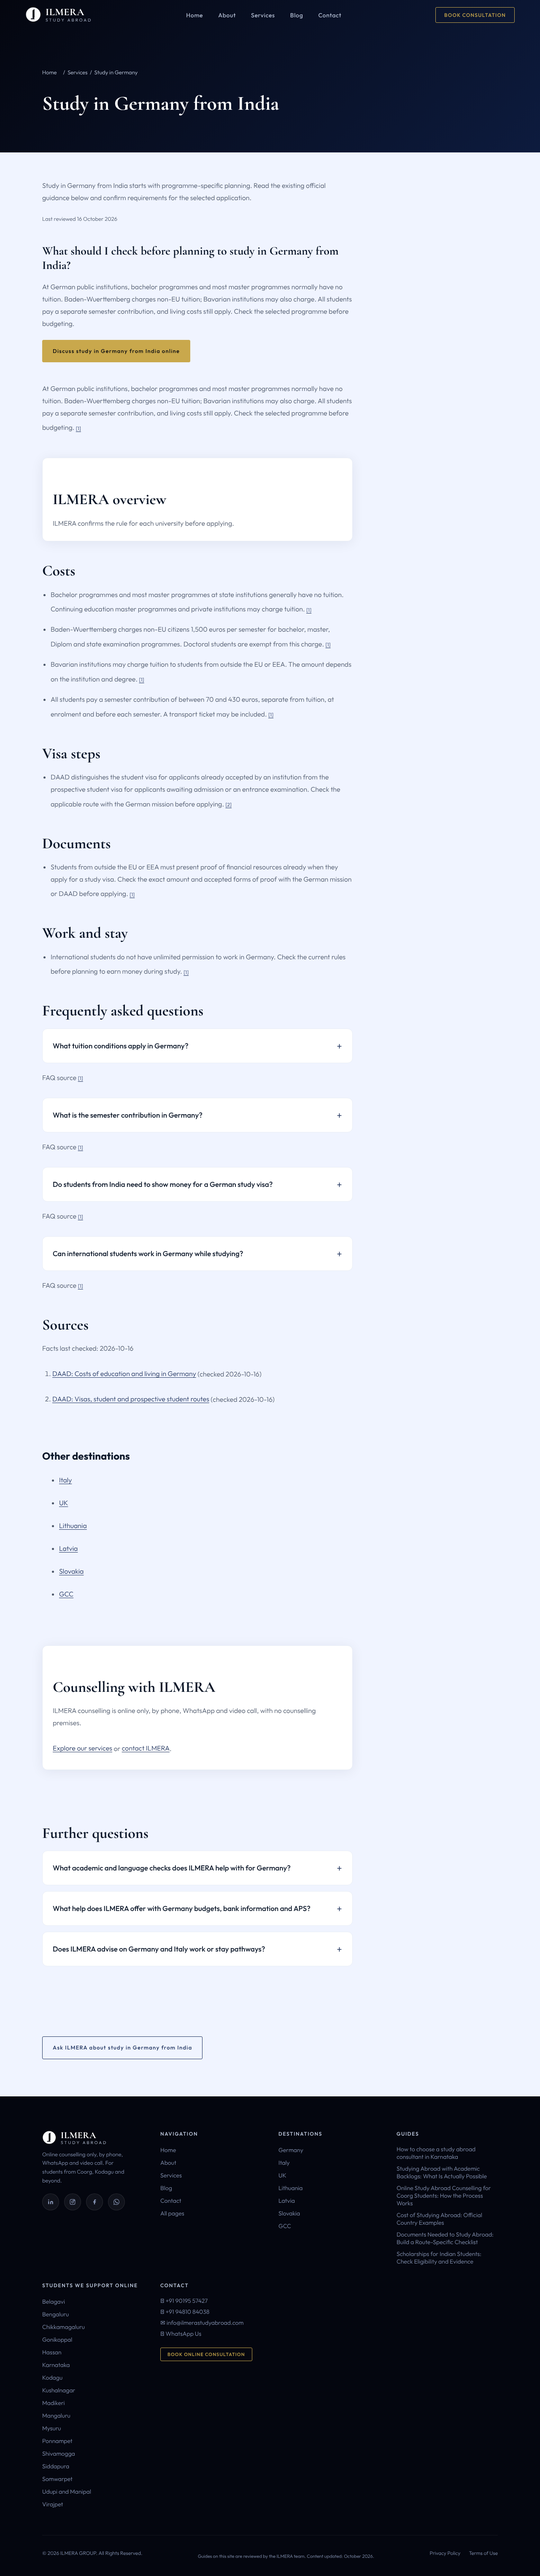
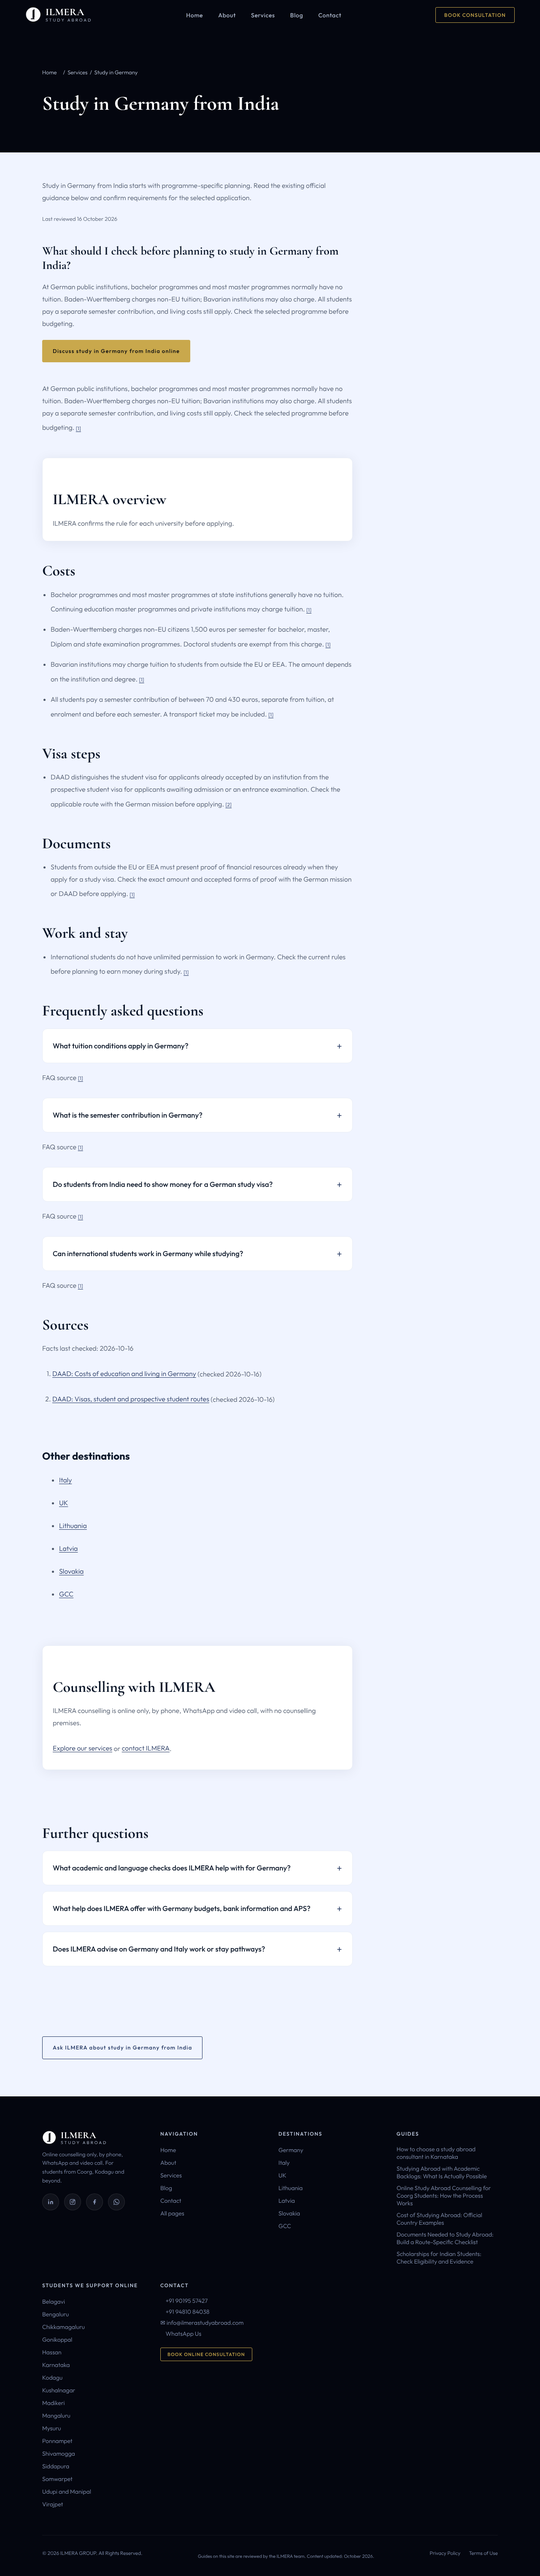
Phase25 Stage2 owner review: full-page desktop and mobile contact sheet

Changed region(s): [[0.4062, 0.0, 1.0, 0.0623]]

diff --git a/tools/phase25/stage2/contact_assets.py b/tools/phase25/stage2/contact_assets.py
@@ -1,0 +1,21 @@
+"""Lossless browser-evidence packaging, not generated website imagery."""
+from pathlib import Path
+from PIL import Image
+import json
+root=Path(__file__).resolve().parents[3];source=Path('/home/user/phase25-evidence/s2/contact');out=root/'reports/screenshots/phase-25-stage-2';rows=[]
+items=[('services','Services reference','Original hero; original light/dark reference rhythm; original CTA; full reference footer. Unchanged reference, not subject to rebuilt accent limit.'),('germany','Germany','Plain navy hero (measured lighter tier); light intro/reading/FAQ; no dark accent; CTA within light content; full reference footer.'),('mysuru','Mysuru','Gradient hero; light intro/reading/FAQ; no dark accent; CTA within light content; full reference footer.'),('article','Article','Gradient hero; light intro/longform/disclosures; no dark accent; CTA within light content; full reference footer.'),('blog','Blog index','Gradient hero; light post index; one dark CTA/accent; full reference footer.'),('privacy','Privacy','Gradient hero; light legal reading area; no dark accent or new CTA; full reference footer.'),('all-pages','All pages','Gradient hero; light intro/directory; no dark accent or new CTA; full reference footer.'),('404','404','Gradient hero; light recovery/navigation area; no dark accent; recovery CTA; abbreviated footer with original contents.')]
+md=['# Phase25 owner contact sheet','','Final Stage2 branch captures at1280 and360. Browser motion is frozen only for evidence; source pages are not rewritten. Fonts/images fully loaded. Images are full-page viewport-tile captures, losslessly packaged as WebP (PNG when beyond the WebP dimension limit), not generated website assets. Raw-branch URLs track this session branch.','', '**Release status: NOT READY.** RuleC, immutable-reference accessibility/performance, literal404 footer and tiny destination header auto-margin deviation remain documented in the release check.','']
+for name,title,roles in items:
+ md+=['## '+title,'']
+ for width in [1280,360]:
+  src=source/f'review-{name}-{width}.png';im=Image.open(src).convert('RGB');ext='png' if max(im.size)>16383 else 'webp';dest=out/f'review-{name}-{width}.{ext}';
+  if ext=='webp':im.save(dest,'WEBP',lossless=True,method=6)
+  else:im.save(dest,'PNG',optimize=True,compress_level=9)
+  assert Image.open(dest).convert('RGB').tobytes()==im.tobytes()
+  url=f'https://raw.githubusercontent.com/fawazbhseo/ilmerastudyabroad/refs/heads/arena/48320ee5-ilmerastudyabroad/reports/screenshots/phase-25-stage-2/{dest.name}'
+  md+=[f'### {width}px','',f'![{title} at {width}px]({url})','',roles,''];rows.append({'name':name,'width':width,'file':dest.relative_to(root).as_posix(),'pixels':im.size,'lossless':True,'bytes':dest.stat().st_size})
+(root/'reports/phase-25-contact-sheet.md').write_text('\n'.join(md)+'\n');(root/'reports/phase-25-stage-2-contact-assets.json').write_text(json.dumps(rows,indent=2)+'\n')
+# Refresh the measured-fallback pilot evidence without lossy recompression.
+for p in out.glob('after-germany-*.png'):
+ im=Image.open(p).convert('RGB');im.save(p,optimize=True,compress_level=9)
+print('PASS16 lossless full-page review images; Germany pilot3 widths refreshed')

diff --git a/reports/phase-25-contact-sheet.md b/reports/phase-25-contact-sheet.md
@@ -1,0 +1,118 @@
+# Phase25 owner contact sheet
+
+Final Stage2 branch captures at1280 and360. Browser motion is frozen only for evidence; source pages are not rewritten. Fonts/images fully loaded. Images are full-page viewport-tile captures, losslessly packaged as WebP (PNG when beyond the WebP dimension limit), not generated website assets. Raw-branch URLs track this session branch.
+
+**Release status: NOT READY.** RuleC, immutable-reference accessibility/performance, literal404 footer and tiny destination header auto-margin deviation remain documented in the release check.
+
+## Services reference
+
+### 1280px
+
+![Services reference at 1280px](https://raw.githubusercontent.com/fawazbhseo/ilmerastudyabroad/refs/heads/arena/48320ee5-ilmerastudyabroad/reports/screenshots/phase-25-stage-2/review-services-1280.png)
+
+Original hero; original light/dark reference rhythm; original CTA; full reference footer. Unchanged reference, not subject to rebuilt accent limit.
+
+### 360px
+
+![Services reference at 360px](https://raw.githubusercontent.com/fawazbhseo/ilmerastudyabroad/refs/heads/arena/48320ee5-ilmerastudyabroad/reports/screenshots/phase-25-stage-2/review-services-360.png)
+
+Original hero; original light/dark reference rhythm; original CTA; full reference footer. Unchanged reference, not subject to rebuilt accent limit.
+
+## Germany
+
+### 1280px
+
+![Germany at 1280px](https://raw.githubusercontent.com/fawazbhseo/ilmerastudyabroad/refs/heads/arena/48320ee5-ilmerastudyabroad/reports/screenshots/phase-25-stage-2/review-germany-1280.webp)
+
+Plain navy hero (measured lighter tier); light intro/reading/FAQ; no dark accent; CTA within light content; full reference footer.
+
+### 360px
+
+![Germany at 360px](https://raw.githubusercontent.com/fawazbhseo/ilmerastudyabroad/refs/heads/arena/48320ee5-ilmerastudyabroad/reports/screenshots/phase-25-stage-2/review-germany-360.webp)
+
+Plain navy hero (measured lighter tier); light intro/reading/FAQ; no dark accent; CTA within light content; full reference footer.
+
+## Mysuru
+
+### 1280px
+
+![Mysuru at 1280px](https://raw.githubusercontent.com/fawazbhseo/ilmerastudyabroad/refs/heads/arena/48320ee5-ilmerastudyabroad/reports/screenshots/phase-25-stage-2/review-mysuru-1280.webp)
+
+Gradient hero; light intro/reading/FAQ; no dark accent; CTA within light content; full reference footer.
+
+### 360px
+
+![Mysuru at 360px](https://raw.githubusercontent.com/fawazbhseo/ilmerastudyabroad/refs/heads/arena/48320ee5-ilmerastudyabroad/reports/screenshots/phase-25-stage-2/review-mysuru-360.webp)
+
+Gradient hero; light intro/reading/FAQ; no dark accent; CTA within light content; full reference footer.
+
+## Article
+
+### 1280px
+
+![Article at 1280px](https://raw.githubusercontent.com/fawazbhseo/ilmerastudyabroad/refs/heads/arena/48320ee5-ilmerastudyabroad/reports/screenshots/phase-25-stage-2/review-article-1280.webp)
+
+Gradient hero; light intro/longform/disclosures; no dark accent; CTA within light content; full reference footer.
+
+### 360px
+
+![Article at 360px](https://raw.githubusercontent.com/fawazbhseo/ilmerastudyabroad/refs/heads/arena/48320ee5-ilmerastudyabroad/reports/screenshots/phase-25-stage-2/review-article-360.webp)
+
+Gradient hero; light intro/longform/disclosures; no dark accent; CTA within light content; full reference footer.
+
+## Blog index
+
+### 1280px
+
+![Blog index at 1280px](https://raw.githubusercontent.com/fawazbhseo/ilmerastudyabroad/refs/heads/arena/48320ee5-ilmerastudyabroad/reports/screenshots/phase-25-stage-2/review-blog-1280.webp)
+
+Gradient hero; light post index; one dark CTA/accent; full reference footer.
+
+### 360px
+
+![Blog index at 360px](https://raw.githubusercontent.com/fawazbhseo/ilmerastudyabroad/refs/heads/arena/48320ee5-ilmerastudyabroad/reports/screenshots/phase-25-stage-2/review-blog-360.webp)
+
+Gradient hero; light post index; one dark CTA/accent; full reference footer.
+
+## Privacy
+
+### 1280px
+
+![Privacy at 1280px](https://raw.githubusercontent.com/fawazbhseo/ilmerastudyabroad/refs/heads/arena/48320ee5-ilmerastudyabroad/reports/screenshots/phase-25-stage-2/review-privacy-1280.webp)
+
+Gradient hero; light legal reading area; no dark accent or new CTA; full reference footer.
+
+### 360px
+
+![Privacy at 360px](https://raw.githubusercontent.com/fawazbhseo/ilmerastudyabroad/refs/heads/arena/48320ee5-ilmerastudyabroad/reports/screenshots/phase-25-stage-2/review-privacy-360.webp)
+
+Gradient hero; light legal reading area; no dark accent or new CTA; full reference footer.
+
+## All pages
+
+### 1280px
+
+![All pages at 1280px](https://raw.githubusercontent.com/fawazbhseo/ilmerastudyabroad/refs/heads/arena/48320ee5-ilmerastudyabroad/reports/screenshots/phase-25-stage-2/review-all-pages-1280.webp)
+
+Gradient hero; light intro/directory; no dark accent or new CTA; full reference footer.
+
+### 360px
+
+![All pages at 360px](https://raw.githubusercontent.com/fawazbhseo/ilmerastudyabroad/refs/heads/arena/48320ee5-ilmerastudyabroad/reports/screenshots/phase-25-stage-2/review-all-pages-360.webp)
+
+Gradient hero; light intro/directory; no dark accent or new CTA; full reference footer.
+
+## 404
+
+### 1280px
+
+![404 at 1280px](https://raw.githubusercontent.com/fawazbhseo/ilmerastudyabroad/refs/heads/arena/48320ee5-ilmerastudyabroad/reports/screenshots/phase-25-stage-2/review-404-1280.webp)
+
+Gradient hero; light recovery/navigation area; no dark accent; recovery CTA; abbreviated footer with original contents.
+
+### 360px
+
+![404 at 360px](https://raw.githubusercontent.com/fawazbhseo/ilmerastudyabroad/refs/heads/arena/48320ee5-ilmerastudyabroad/reports/screenshots/phase-25-stage-2/review-404-360.webp)
+
+Gradient hero; light recovery/navigation area; no dark accent; recovery CTA; abbreviated footer with original contents.
+

diff --git a/reports/phase-25-stage-2-progress.md b/reports/phase-25-stage-2-progress.md
@@ -13,7 +13,7 @@ Resume safety: clean checkout fetched and aligned with remote session branch at3
 - Task2D legal/utility: complete.
 - Task3 verification: completed with declared immutable-reference/404/target deviations; two cycles plus scoped recovery, no all-green release claim. One final cycle remains within the maximum3 if performance changes a template.
 - Task4 performance: complete. All seven rebuilt samples PASS after destination-only plain/inline fallback; unchanged Services control FAILS LCP. Overall performance gate remains FAIL, no waiver.
-- Task5 owner review sheet: not started.
+- Task5 owner review sheet: complete.16 final full-page captures, raw branch embeds,1280/360 in requested order; Germany pilot3 widths refreshed.
 - Task6 release sign-off: not started.
 
 RuleC replaces the prior zero-tolerance rule by explicit owner authorization, not an automatic test relaxation. First measure two unchanged baseline captures. Exact reference chrome wins over minimum hit size when an invisible extension cannot avoid overlapping adjacent targets. References remain excluded from font and template rollout. Generated stills remain unreferenced.
@@ -65,3 +65,7 @@ Unchanged Contact control also fails LCP/CLS (8786.532ms/.004813818 versus1939.8
 Final destination fallback median: LCP1181.228ms, CLS0, TBT3ms, transfer200010bytes (minus30539), requests4. All other rebuilt samples retain gradient/self-hosted; all7 rebuilt samples PASS every unchanged budget. All have CLS0; no new blocking resource. Raw initial failure and full remeasurement retained.
 
 Final unchanged Services control LCP8941.540ms exceeds2315.607ms cap; FAIL. Contact passes final but failed initial. Reference heroes stay unchanged; do not claim source-driven speedups or waive local control variance. Three added-page baselines are labelled supplemental immutable-HTML replay; original seven Stage1 per-route baseline values are untouched. No more unchanged-reference performance retries to pursue a pass.
+
+## Task5 checkpoint
+
+Contact sheet contains Services reference, Germany, Mysuru, article, blog, privacy, all-pages and404, each1280 then360, with one role-description line per image.16 final full-page browser captures use lossless WebP, or PNG beyond its16383px size limit; byte-for-byte decoded RGB checks PASS. Germany's three pilot PNGs/layout refreshed for the measured plain/inline tier. No website imagery was generated or replaced.
